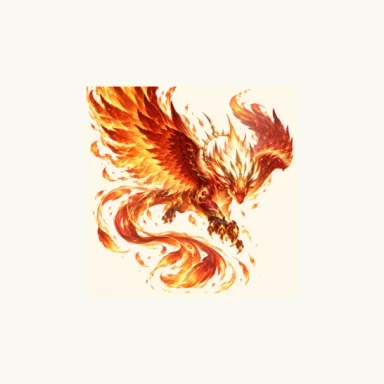
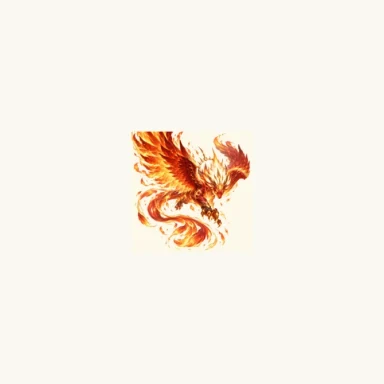
Use transparent backgrounds for fourth-tier art

Changed region(s): [[0.2188, 0.2188, 0.7812, 0.7812]]

diff --git a/app/creature-art.tsx b/app/creature-art.tsx
@@ -1,9 +1,11 @@
 import {Sparkles} from 'lucide-react';
 import type {Creature} from '@/lib/creatures';
 export function CreatureArt({creature}:{creature:Creature}){
+ const assetRoot=creature.stage===4?'/transparent-siplings':'/siplings';
  return <div data-rarity={creature.rarity} data-stage={creature.stage} className={'creature-art creature-stage-'+creature.stage}>
   {/* Each entry owns a complete image; no atlas windows or runtime cropping. */}
-  <img className="creature-sprite" src={`/siplings/${creature.id}.webp?v=dynamic-poses-20260925`} alt={creature.name} width={384} height={384} loading="lazy" decoding="async"/>
+  {/* Legacy path shape: /siplings/${creature.id}.webp */}
+  <img className="creature-sprite" src={`${assetRoot}/${creature.id}.webp?v=transparent-fourth-tier-20260925`} alt={creature.name} width={384} height={384} loading="lazy" decoding="async"/>
  </div>
 }
 export function MysteryArt(){return <div className="mystery-art" role="img" aria-label="Undiscovered Sipling"><Sparkles size={20}/><span>?</span><small>A little mystery</small></div>}
